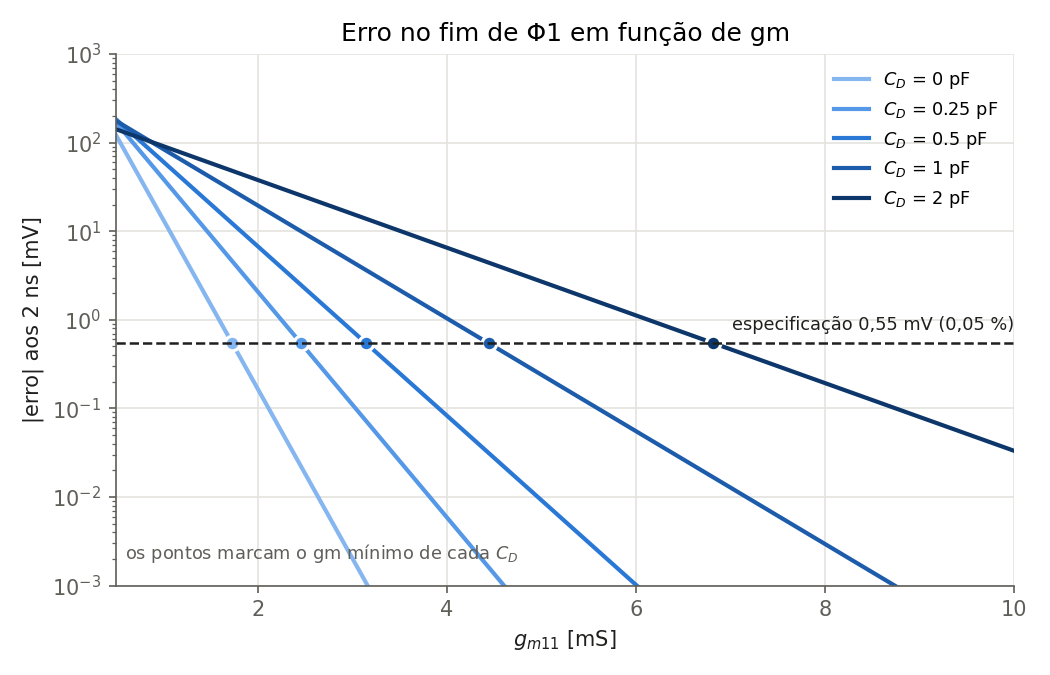
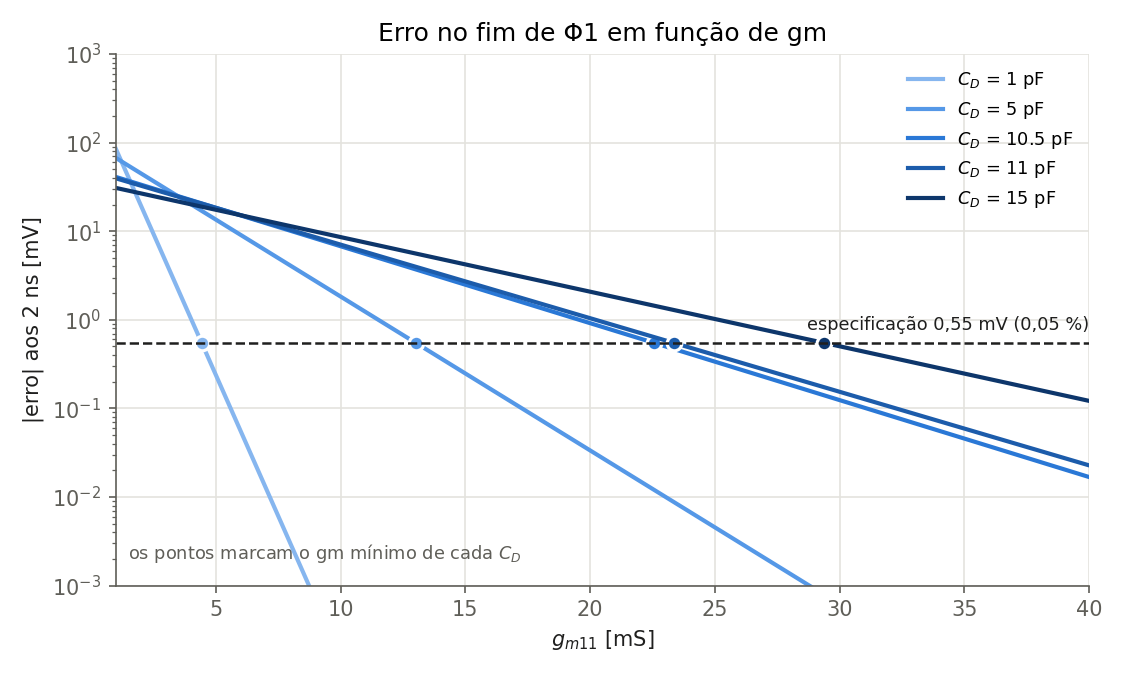
CIA script atualizado a)

diff --git a/CIA/LAB1/dimensionamento.py b/CIA/LAB1/dimensionamento.py
@@ -7,8 +7,10 @@ Vref, CDAC, fclk, eps = 1.1, 0.5e-12, 250e6, 5e-4
 t1 = 1/fclk/2                  # 2 ns
 Vmin = Vref*(1-eps)            # 1.09945 V
 gm_ID = 28                     # S/A (para calcular a corrente)
+dV_max = 50e-3                 # queda máxima em Vout quando liga o CDAC (requisito do professor)
 
-CD_sel = 1.0e-12               # C_D escolhido
+CD_min = CDAC*(Vref/dV_max - 1)  # CD mínimo para queda <= 50 mV  (= 10.5 pF)
+CD_sel = 11e-12                # C_D escolhido
 margem = 1.12                  # margem no gm (+12 %)
 
 def Vout(t, gm, CD):
@@ -20,26 +22,31 @@ def erro(t, gm, CD):           # |Vref - Vout| calculado diretamente (evita arre
     C = CD + CDAC
     return Vref*CDAC/C*np.exp(-1.1*gm*t/C)
 
+def queda(CD):                 # queda inicial de Vout por partilha de carga com o CDAC
+    return Vref*CDAC/(CD + CDAC)
+
 # ============ procura do gm mínimo para cada C_D ============
-gm_vals = np.arange(0.1e-3, 20e-3, 0.01e-3)  # gm de 0.1 mS a 20 mS, passo 10 uS
+gm_vals = np.arange(0.1e-3, 60e-3, 0.01e-3)  # gm de 0.1 mS a 60 mS, passo 10 uS
 
 def gm_min_de(CD):
     ok = Vout(t1, gm_vals, CD) >= Vmin
     return gm_vals[ok][0]                      # o primeiro (menor) que cumpre
 
-CD_vals = np.arange(0, 2.01e-12, 0.25e-12)   # valores de CD a testar
-for CD in CD_vals:
+print(f"CD mínimo para queda <= {dV_max*1e3:.0f} mV: {CD_min*1e12:.2f} pF\n")
+print(" CD [pF] | queda [mV] | queda<=50mV | gm min [mS] | ID [uA]")
+CD_vals = np.r_[np.arange(1e-12, 15.01e-12, 1e-12), CD_min]
+for CD in np.sort(CD_vals):
     gm_min = gm_min_de(CD)
-    print(f"CD = {CD*1e12:4.2f} pF -> gm min = {gm_min*1e3:5.2f} mS  "
-          f"(Vout(2ns) = {Vout(t1, gm_min, CD):.6f} V)")
+    print(f" {CD*1e12:6.2f}  |  {queda(CD)*1e3:7.1f}   |     {'sim' if queda(CD) <= dV_max+1e-12 else 'não':3s}     |"
+          f"   {gm_min*1e3:6.2f}    | {gm_min/gm_ID*1e6:6.0f}")
 
 # ponto escolhido
 gm_sel = margem*gm_min_de(CD_sel)
 print(f"\nEscolha: CD = {CD_sel*1e12:.2f} pF, gm = {gm_sel*1e3:.2f} mS "
       f"(mínimo {gm_min_de(CD_sel)*1e3:.2f} mS + {100*(margem-1):.0f} %)")
+print(f"  queda inicial = {queda(CD_sel)*1e3:.1f} mV  (máx {dV_max*1e3:.0f} mV)")
 print(f"  Vout(2ns) = {Vout(t1, gm_sel, CD_sel):.6f} V  (limite {Vmin:.6f} V)")
-print(f"  erro = {(Vref-Vout(t1, gm_sel, CD_sel))*1e3:.3f} mV  (máx {Vref*eps*1e3:.2f} mV)")
-print(f"  queda inicial = {Vref*CDAC/(CD_sel+CDAC)*1e3:.0f} mV")
+print(f"  erro = {erro(t1, gm_sel, CD_sel)*1e3:.3f} mV  (máx {Vref*eps*1e3:.2f} mV)")
 print(f"  I_D11 = {gm_sel/gm_ID*1e6:.0f} uA  (gm/ID = {gm_ID} S/A)")
 
 # ======================= gráficos =======================
@@ -55,86 +62,98 @@ def linha_spec(ax):
     ax.axhline(Emax, color=INK, ls="--", lw=1.2)
     ax.text(ax.get_xlim()[1], Emax*1.25, "especificação 0,55 mV (0,05 %)",
             ha="right", va="bottom", color=INK, fontsize=8.5)
+def zona_CDmin(ax):            # sombreia CD < CD_min (queda > 50 mV)
+    ax.axvspan(ax.get_xlim()[0], CD_min*1e12, color=INK2, alpha=0.08, lw=0)
+    ax.axvline(CD_min*1e12, color=INK2, lw=1, ls="--")
+
+CDp = np.linspace(1e-12, 15e-12, 281)          # eixo dos gráficos: 1 a 15 pF
+XL = (1, 15)
 
 # ---- Fig. 1: gm mínimo, corrente e queda em função de C_D ----
-CD = np.linspace(0, 5e-12, 201)
-gmm = np.array([gm_min_de(c) for c in CD])
-fig, ax = plt.subplots(1, 3, figsize=(13, 3.8))
-ax[0].plot(CD*1e12, gmm*1e3, color=RAMP[2])
-ax[0].fill_between(CD*1e12, gmm*1e3, 20, color=RAMP[0], alpha=0.25, lw=0)
-ax[0].text(0.6, 15, "cumpre a\nespecificação", color=RAMP[3], fontsize=9)
-ax[0].text(3.6, 1.5, "não cumpre", color=INK2, fontsize=9)
+gmm = np.array([gm_min_de(c) for c in CDp])
+fig, ax = plt.subplots(1, 3, figsize=(14, 4))
+for a in ax: a.set_xlim(*XL)
+ax[0].plot(CDp*1e12, gmm*1e3, color=RAMP[2])
+ax[0].fill_between(CDp*1e12, gmm*1e3, 40, color=RAMP[0], alpha=0.25, lw=0)
+ax[0].text(1.5, 33, "cumpre o erro\nde 0,05 %", color=RAMP[3], fontsize=9)
+ax[0].text(11.5, 4, "não cumpre", color=INK2, fontsize=9)
 ax[0].plot(CD_sel*1e12, gm_sel*1e3, "o", color=ACC, ms=7, mec="white", mew=1.5)
-ax[0].annotate(f"escolha: {CD_sel*1e12:g} pF, {gm_sel*1e3:.2f} mS",
-               (CD_sel*1e12, gm_sel*1e3), (1.4, 9.0), color=INK, fontsize=8.5,
-               arrowprops=dict(arrowstyle="-", color=INK2, lw=0.8))
-ax[0].set(xlabel="$C_D$ [pF]", ylabel="$g_{m11}$ mínimo [mS]", ylim=(0, 20),
+ax[0].annotate(f"escolha: {CD_sel*1e12:g} pF\n{gm_sel*1e3:.1f} mS", (CD_sel*1e12, gm_sel*1e3),
+               (5.5, 31), color=INK, fontsize=8.5, arrowprops=dict(arrowstyle="-", color=INK2, lw=0.8))
+ax[0].set(xlabel="$C_D$ [pF]", ylabel="$g_{m11}$ mínimo [mS]", ylim=(0, 40),
           title="gm mínimo para erro ≤ 0,05 % em 2 ns")
-ax[1].plot(CD*1e12, gmm/gm_ID*1e6, color=RAMP[2])
+ax[1].plot(CDp*1e12, gmm/gm_ID*1e6, color=RAMP[2])
+ax[1].plot(CD_sel*1e12, gm_sel/gm_ID*1e6, "o", color=ACC, ms=7, mec="white", mew=1.5)
 ax[1].set(xlabel="$C_D$ [pF]", ylabel="$I_{D11}$ [µA]",
           title=f"Corrente no M11 (gm/I$_D$ = {gm_ID} S/A)")
-ax[2].plot(CD*1e12, Vref*CDAC/(CD+CDAC)*1e3, color=RAMP[2])
-ax[2].set(xlabel="$C_D$ [pF]", ylabel="ΔV inicial [mV]", title="Queda inicial de $V_{out}$")
+ax[2].plot(CDp*1e12, queda(CDp)*1e3, color=RAMP[2])
+ax[2].axhline(dV_max*1e3, color=INK, ls="--", lw=1.2)
+ax[2].text(14.8, dV_max*1e3+8, "máx. 50 mV", ha="right", color=INK, fontsize=8.5)
+ax[2].plot(CD_sel*1e12, queda(CD_sel)*1e3, "o", color=ACC, ms=7, mec="white", mew=1.5)
+ax[2].set(xlabel="$C_D$ [pF]", ylabel="ΔV [mV]", ylim=(0, 300),
+          title="Queda de $V_{out}$ ao ligar o $C_{DAC}$")
 for a in ax:
+    zona_CDmin(a)
     a.axvline(CD_sel*1e12, color=ACC, lw=1, ls=":")
+ax[2].text(CD_min*1e12-0.2, 270, f"queda > 50 mV\n($C_D$ < {CD_min*1e12:.1f} pF)",
+           ha="right", va="top", color=INK2, fontsize=8.5)
 plt.tight_layout(); plt.savefig("fig1_gm_vs_CD.png")
 
 # ---- Fig. 2: Vout(t) e erro(t) — varia C_D | varia gm ----
 t = np.linspace(0, 2.5e-9, 1000)
-CD_list = [0, 0.25e-12, 0.5e-12, 1e-12, 2e-12]
-gm_list = [2e-3, 3e-3, 4e-3, 5e-3, 7e-3]
+CD_list = [1e-12, 5e-12, CD_min, CD_sel, 15e-12]
+gm_list = [10e-3, 15e-3, 20e-3, gm_sel, 35e-3]
 fig, ax = plt.subplots(2, 2, figsize=(12, 7.5), sharex=True)
 for i, c in enumerate(CD_list):
-    V = Vout(t, gm_sel, c)
-    ax[0,0].plot(t*1e9, V, color=RAMP[i], label=f"$C_D$ = {c*1e12:g} pF")
+    ax[0,0].plot(t*1e9, Vout(t, gm_sel, c), color=RAMP[i], label=f"$C_D$ = {c*1e12:g} pF")
     ax[1,0].semilogy(t*1e9, erro(t, gm_sel, c)*1e3, color=RAMP[i])
 for i, g in enumerate(gm_list):
-    V = Vout(t, g, CD_sel)
-    ax[0,1].plot(t*1e9, V, color=RAMP[i], label=f"gm = {g*1e3:g} mS")
+    ax[0,1].plot(t*1e9, Vout(t, g, CD_sel), color=RAMP[i], label=f"gm = {g*1e3:.1f} mS")
     ax[1,1].semilogy(t*1e9, erro(t, g, CD_sel)*1e3, color=RAMP[i])
-ax[0,0].set(title=f"Varia $C_D$  (gm = {gm_sel*1e3:.2f} mS)", ylabel="$V_{out}$ [V]")
+ax[0,0].set(title=f"Varia $C_D$  (gm = {gm_sel*1e3:.1f} mS)", ylabel="$V_{out}$ [V]")
 ax[0,1].set(title=f"Varia gm  ($C_D$ = {CD_sel*1e12:g} pF)")
 for a in ax[0]:
-    a.axhline(Vref, color=INK2, lw=0.8); a.legend(loc="lower center", fontsize=8.5)
+    a.axhline(Vref, color=INK2, lw=0.8); a.legend(loc="lower right", fontsize=8.5)
 for a in ax[1]:
-    a.set(xlabel="t [ns]", ylabel="|$V_{ref}-V_{out}$| [mV]", ylim=(1e-2, 2e3), xlim=(0, 2.5))
+    a.set(xlabel="t [ns]", ylabel="|$V_{ref}-V_{out}$| [mV]", ylim=(1e-3, 2e3), xlim=(0, 2.5))
     linha_spec(a)
 for a in ax.flat:
     a.axvline(t1*1e9, color=ACC, lw=1, ls=":")
-ax[0,0].text(1.97, 0.55, "fim de Φ1\n(2 ns)", color=ACC, fontsize=8.5, ha="right")
 plt.tight_layout(); plt.savefig("fig2_Vout_t.png")
 
 # ---- Fig. 3: erro aos 2 ns em função de gm, várias C_D ----
-gm = np.linspace(0.5e-3, 10e-3, 500)
-fig, ax = plt.subplots(figsize=(7, 4.5))
+gm = np.linspace(1e-3, 40e-3, 500)
+fig, ax = plt.subplots(figsize=(7.5, 4.5))
 for i, c in enumerate(CD_list):
     ax.semilogy(gm*1e3, erro(t1, gm, c)*1e3, color=RAMP[i], label=f"$C_D$ = {c*1e12:g} pF")
     ax.plot(gm_min_de(c)*1e3, Emax, "o", color=RAMP[i], ms=7, mec="white", mew=1.5)
-ax.set(xlabel="$g_{m11}$ [mS]", ylabel="|erro| aos 2 ns [mV]", xlim=(0.5, 10), ylim=(1e-3, 1e3),
+ax.set(xlabel="$g_{m11}$ [mS]", ylabel="|erro| aos 2 ns [mV]", xlim=(1, 40), ylim=(1e-3, 1e3),
        title="Erro no fim de Φ1 em função de gm")
 linha_spec(ax); ax.legend(loc="upper right", fontsize=8.5)
-ax.text(0.6, 2e-3, "os pontos marcam o gm mínimo de cada $C_D$", color=INK2, fontsize=8.5)
+ax.text(1.5, 2e-3, "os pontos marcam o gm mínimo de cada $C_D$", color=INK2, fontsize=8.5)
 plt.tight_layout(); plt.savefig("fig3_erro_vs_gm.png")
 
 # ---- Fig. 4: mapa do erro no plano (C_D, gm) ----
-X, Y = np.meshgrid(np.linspace(0, 3e-12, 301), np.linspace(0.5e-3, 10e-3, 301))
+X, Y = np.meshgrid(np.linspace(1e-12, 15e-12, 301), np.linspace(1e-3, 40e-3, 301))
 Z = np.log10(erro(t1, Y, X)/Vref*100)      # log10(erro em %)
 cmap = LinearSegmentedColormap.from_list("blues", ["#0d366b", "#2a78d6", "#86b6ef", "#e8f1fc"])
-fig, ax = plt.subplots(figsize=(7.5, 5))
+fig, ax = plt.subplots(figsize=(8, 5))
 cs = ax.contourf(X*1e12, Y*1e3, Z, levels=np.arange(-6, 2.01, 0.5), cmap=cmap, extend="both")
 cl = ax.contour(X*1e12, Y*1e3, Z, levels=[-4, -3, -2, -1], colors="white",
                 linewidths=0.7, linestyles="solid")
 ax.clabel(cl, fmt={-4: "0,0001 %", -3: "0,001 %", -2: "0,01 %", -1: "0,1 %"}, fontsize=8)
 ax.contour(X*1e12, Y*1e3, Z, levels=[np.log10(eps*100)], colors=ACC,
            linewidths=2.2, linestyles="solid")
-ax.text(2.0, gm_min_de(2.05e-12)*1e3+0.4, "0,05 % (limite)", color=ACC, fontsize=9, rotation=28)
+ax.axvspan(1, CD_min*1e12, color="white", alpha=0.35, lw=0)
+ax.axvline(CD_min*1e12, color="white", lw=1.2, ls="--")
+ax.text(CD_min*1e12-0.2, 3, "queda > 50 mV", ha="right", va="bottom", color=INK, fontsize=9)
 ax.plot(CD_sel*1e12, gm_sel*1e3, "o", color=ACC, ms=8, mec="white", mew=1.5)
-ax.annotate("ponto escolhido", (CD_sel*1e12, gm_sel*1e3), (1.5, 3.0), color=INK, fontsize=9,
-            arrowprops=dict(arrowstyle="-", color=INK2, lw=0.8))
+ax.annotate("ponto escolhido", (CD_sel*1e12, gm_sel*1e3), (12, 34), color="white", fontsize=9,
+            arrowprops=dict(arrowstyle="-", color="white", lw=0.8))
 fig.colorbar(cs).set_label("log$_{10}$(erro aos 2 ns [%])")
 ax.grid(False)
 ax.set(xlabel="$C_D$ [pF]", ylabel="$g_{m11}$ [mS]",
-       title="Erro aos 2 ns no plano ($C_D$, gm) — acima da linha cumpre")
+       title="Erro aos 2 ns no plano ($C_D$, gm) — acima da linha laranja cumpre")
 plt.tight_layout(); plt.savefig("fig4_mapa_CD_gm.png")
 
 plt.show()
